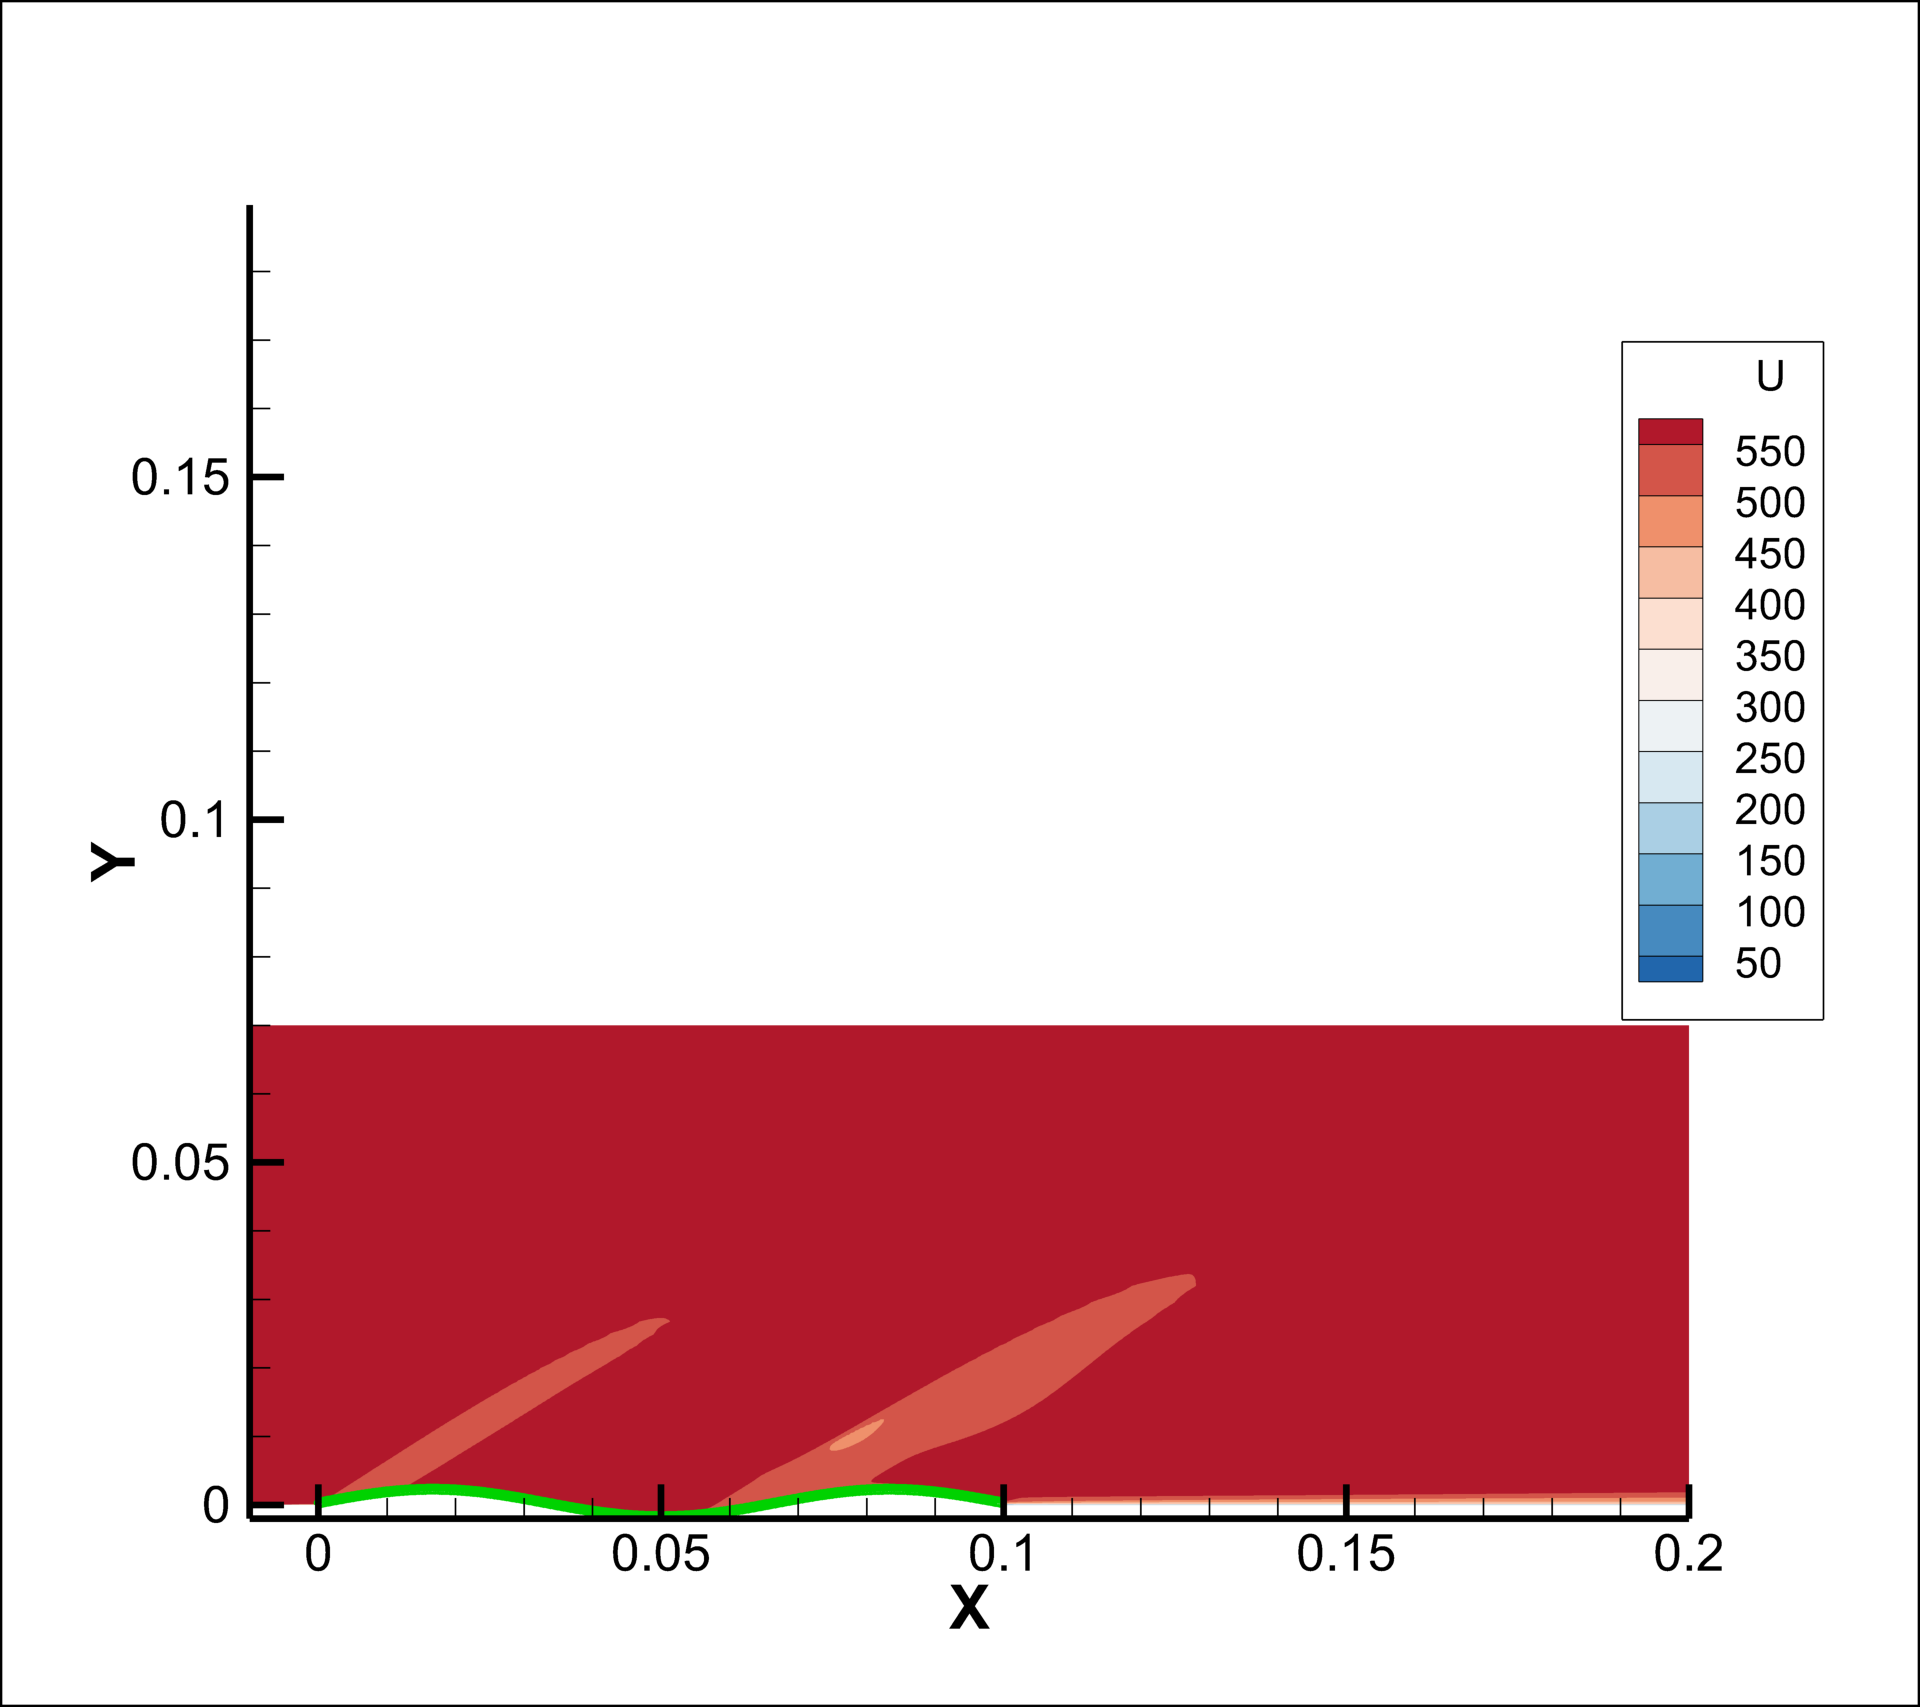
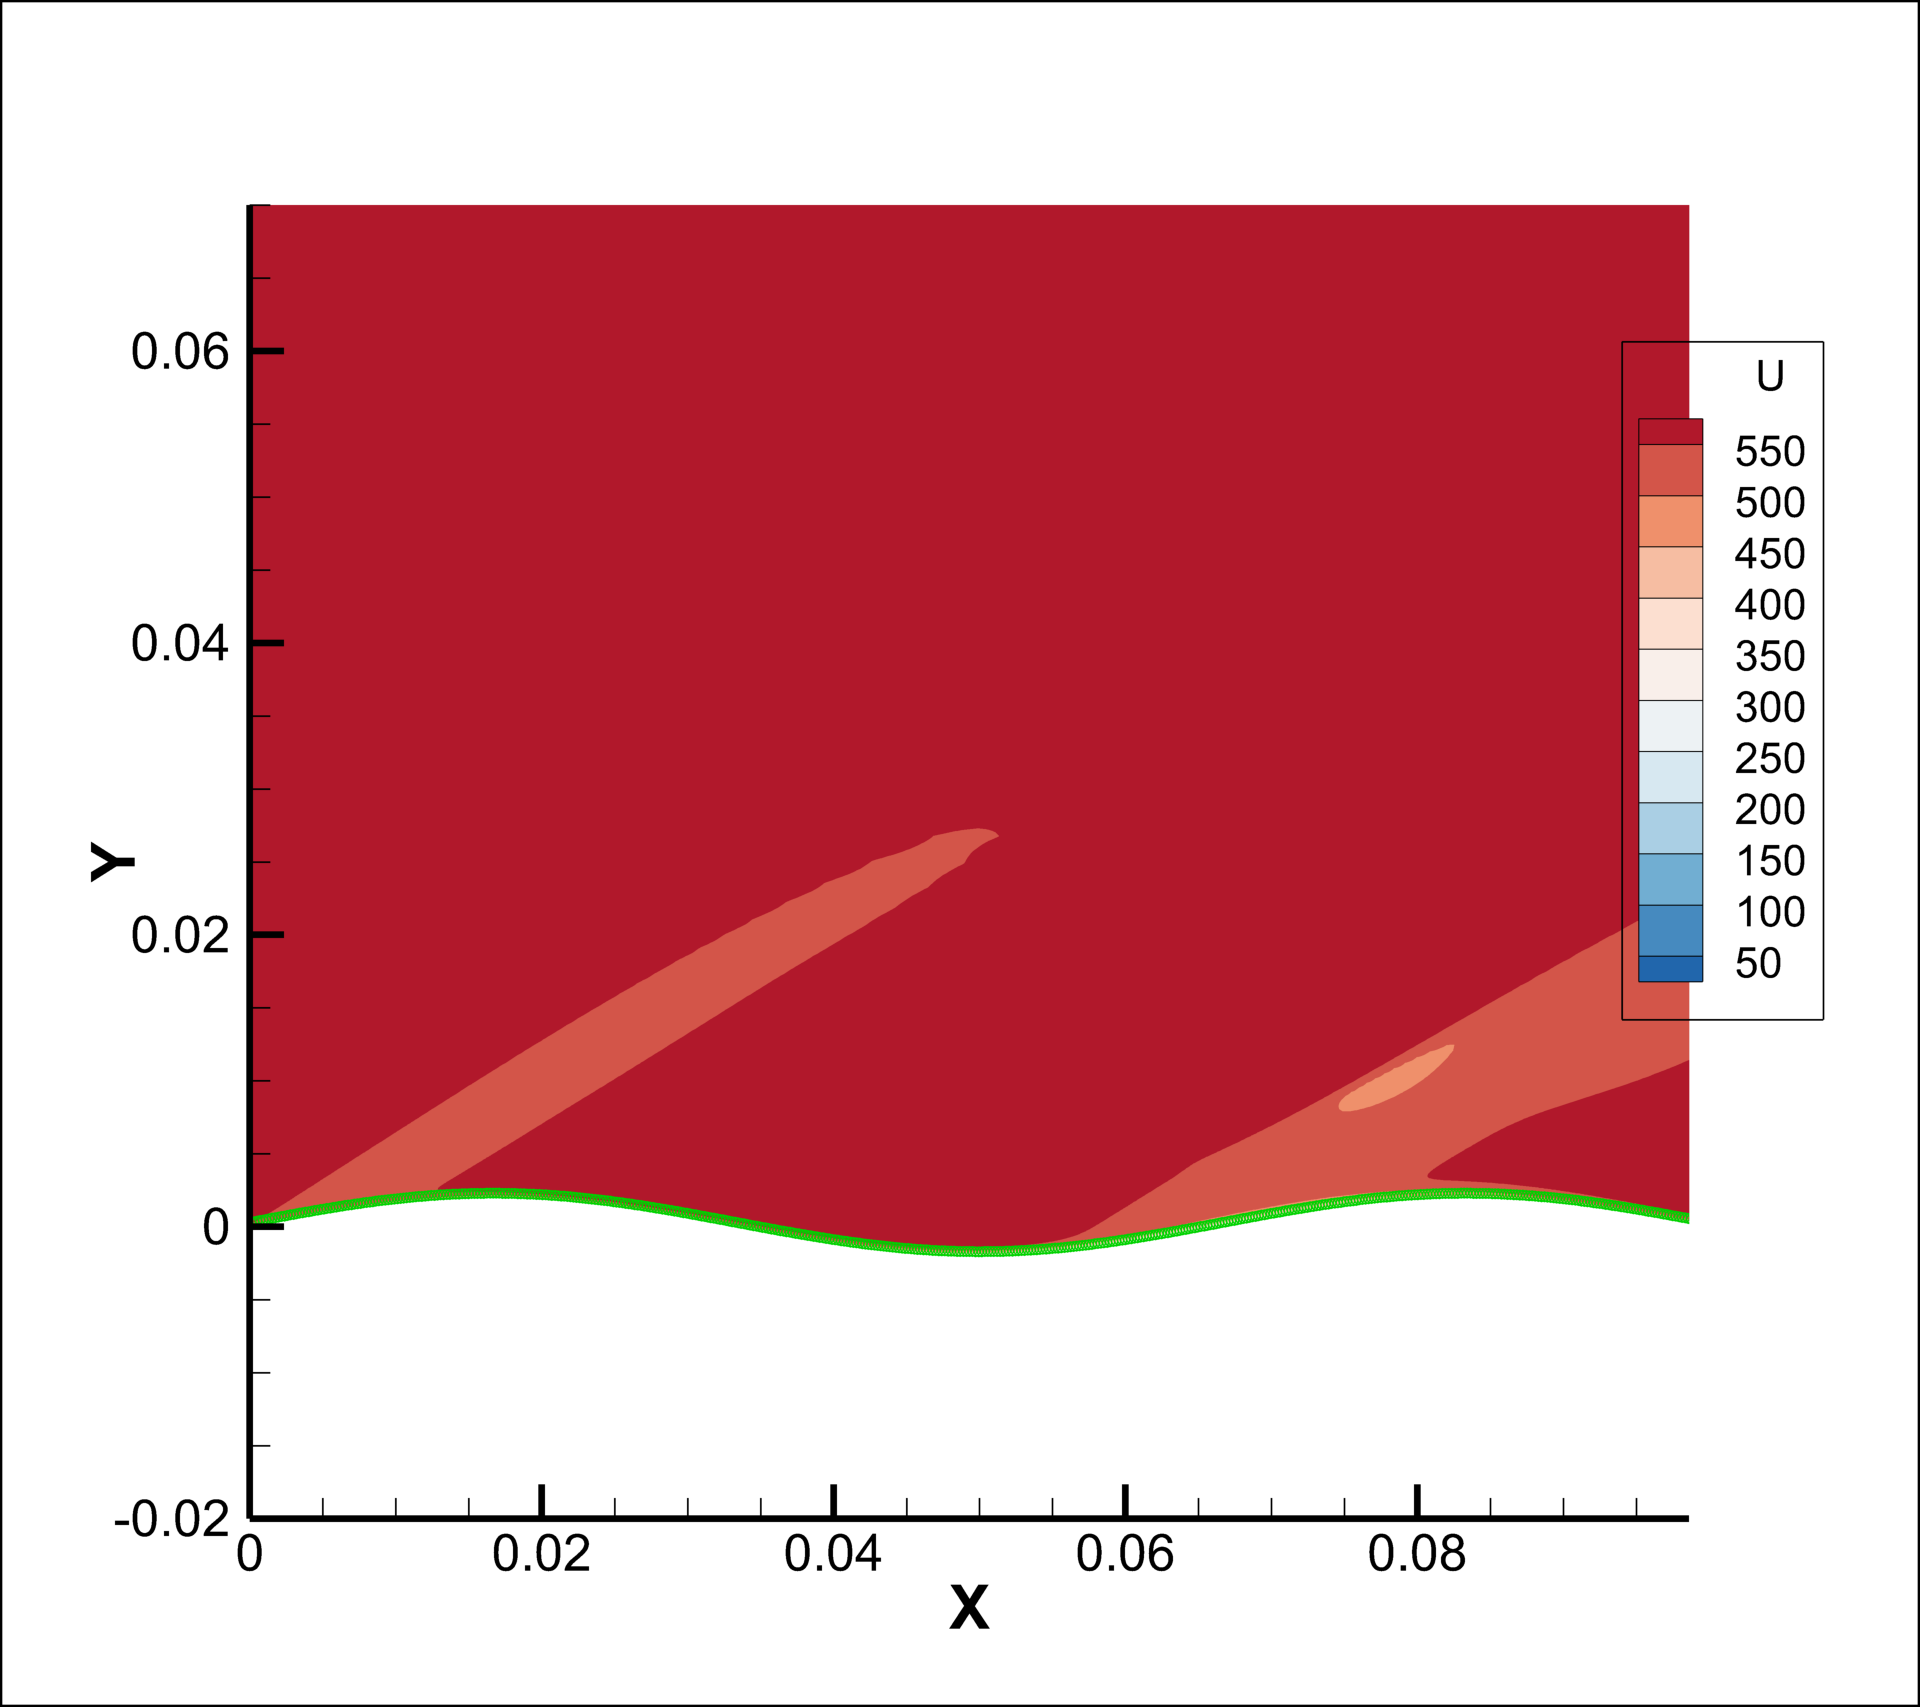
Changes to the BL plotting function
Made the BL plots more clear for my thesis and presentation.

diff --git a/SBTTD/2_SBTTD Data Analysis Code/utils/plotting.py b/SBTTD/2_SBTTD Data Analysis Code/utils/plotting.py
@@ -84,11 +84,11 @@ def plot_BL_thickness_subplots(delta_n_dict, x_start_dict, save=False,
     mpl.rcParams['font.family']     = 'serif'
     mpl.rcParams['font.serif']      = ['Times New Roman']
     mpl.rcParams['font.size']       = 24
-    mpl.rcParams['axes.labelsize']  = 16
+    mpl.rcParams['axes.labelsize']  = 34
     mpl.rcParams['axes.titlesize']  = 34
     mpl.rcParams['xtick.labelsize'] = 12
     mpl.rcParams['ytick.labelsize'] = 12
-    mpl.rcParams['figure.dpi']      = 600
+    mpl.rcParams['figure.dpi']      = 1200
     mpl.rcParams['savefig.dpi']     = 600
     mpl.rcParams['axes.linewidth']  = 1
     mpl.rcParams['lines.linewidth'] = 3
@@ -124,29 +124,38 @@ def plot_BL_thickness_subplots(delta_n_dict, x_start_dict, save=False,
         for i, key in enumerate(keys_for_hl):
             mach_match = re.search(r'Mach_([\d.]+)', key)
             label      = f"M = {mach_match.group(1)}" if mach_match else key
-
             ax.plot(x_start_dict[key], delta_n_dict[key], color=cmap(i), label=label)
 
         ax.set_title(f"h/l = {hl}")
         ax.set_xlabel(r"X [m]")
         ax.set_ylabel(r"BL $\delta$ [mm]")
-        ax.legend(frameon=False, fontsize=6)
+        # ax.legend(...)  <-- remove this line
         ax.grid(True, alpha=0.3)
 
     # Hide unused subplot slots
     for ax_idx in range(n_hl, len(axes_flat)):
         axes_flat[ax_idx].set_visible(False)
 
-    fig.suptitle("Boundary Layer Thickness — All Cases", fontsize=14)
+    # Single figure-level legend from the first subplot's handles
+    handles, labels = axes_flat[0].get_legend_handles_labels()
+    fig.legend(handles, labels,
+               loc='center left',
+               bbox_to_anchor=(1.01, 0.5),   # just outside the right edge
+               frameon=False,
+               fontsize=12,
+               title='Mach Number',
+               title_fontsize=13)
+
+    fig.suptitle("Boundary Layer Thickness — All Cases", fontsize=24)
     plt.tight_layout()
     plt.show()
 
     if save:
         save_dir = Path(save_dir)
         save_dir.mkdir(parents=True, exist_ok=True)
-        fig.savefig(save_dir / "BL_thickness_all_cases.png", dpi=600, bbox_inches='tight')
-        fig.savefig(save_dir / "BL_thickness_all_cases.pdf",            bbox_inches='tight')
-
+        fig.savefig(save_dir / "BL_thickness_all_cases.png", dpi=600,
+                    bbox_inches='tight')   # bbox_inches='tight' ensures legend is not clipped
+        fig.savefig(save_dir / "BL_thickness_all_cases.pdf", bbox_inches='tight')
     plt.close(fig)
     
     
@@ -159,6 +168,7 @@ def plot_BL_location_tecplot(edge_x_dict, edge_y_dict, file_paths, ds_by_case,
     
     save_dir = Path(save_dir)
     save_dir.mkdir(parents=True, exist_ok=True)
+    tp.session.connect()
 
     for idx, key in enumerate(ds_by_case.keys()):
 
@@ -222,7 +232,7 @@ def plot_BL_location_tecplot(edge_x_dict, edge_y_dict, file_paths, ds_by_case,
     
     
     
-        # Configure scatter on BL zone only
+        # Configure scatter on BL zone only #
         fieldmap                      = plot.fieldmap(bl_zone)
         fieldmap.scatter.show         = True
         fieldmap.scatter.symbol_type  = SymbolType.Geometry
@@ -233,6 +243,14 @@ def plot_BL_location_tecplot(edge_x_dict, edge_y_dict, file_paths, ds_by_case,
         fieldmap.contour.show         = False
         
         plot.view.fit()
+
+        # Zoom into BL region #
+        plot.axes.x_axis.min = 0.0
+        plot.axes.x_axis.max = 0.1   # adjust to your geometry length
+        plot.axes.y_axis.min = -0.02
+        plot.axes.y_axis.max = 0.07
+        
+        # Outputting file # 
         out_path = save_dir / f"BL_location_{key}.png"
         tp.export.save_png(out_path.as_posix(), width=1920)
         print(f"Saved: {out_path}")

diff --git a/SBTTD/2_SBTTD Data Analysis Code/MachPostProcessCode.py b/SBTTD/2_SBTTD Data Analysis Code/MachPostProcessCode.py
@@ -26,7 +26,7 @@ import utils.plotting
 
 from utils.parameterComputation import variableImporterMasked, ReCompute, yplusThreshold
 from utils.dataload_util import assign_dir, bigImport, runSaver, runLoader, file_pathFinder, load_minfo_step_force
-from utils.plotting import plotter, plotter_multi_all, plotter_multiPerCase, subplotter, plot_scaled_axialForce_vs_hl,plot_BL_thickness,plot_BL_location_tecplot
+from utils.plotting import plotter, plotter_multi_all, plotter_multiPerCase, subplotter, plot_scaled_axialForce_vs_hl,plot_BL_thickness,plot_BL_location_tecplot,plot_BL_thickness_subplots
 from utils.models import analyze_geometries, get_first_shock_pressures, offsetGeomPoints, smallPertSolver, find_sepLength, max_min_finder,mach_vs_sepLength, smallPertSolver_with_SE, smallPertSolver_combined
 
 
